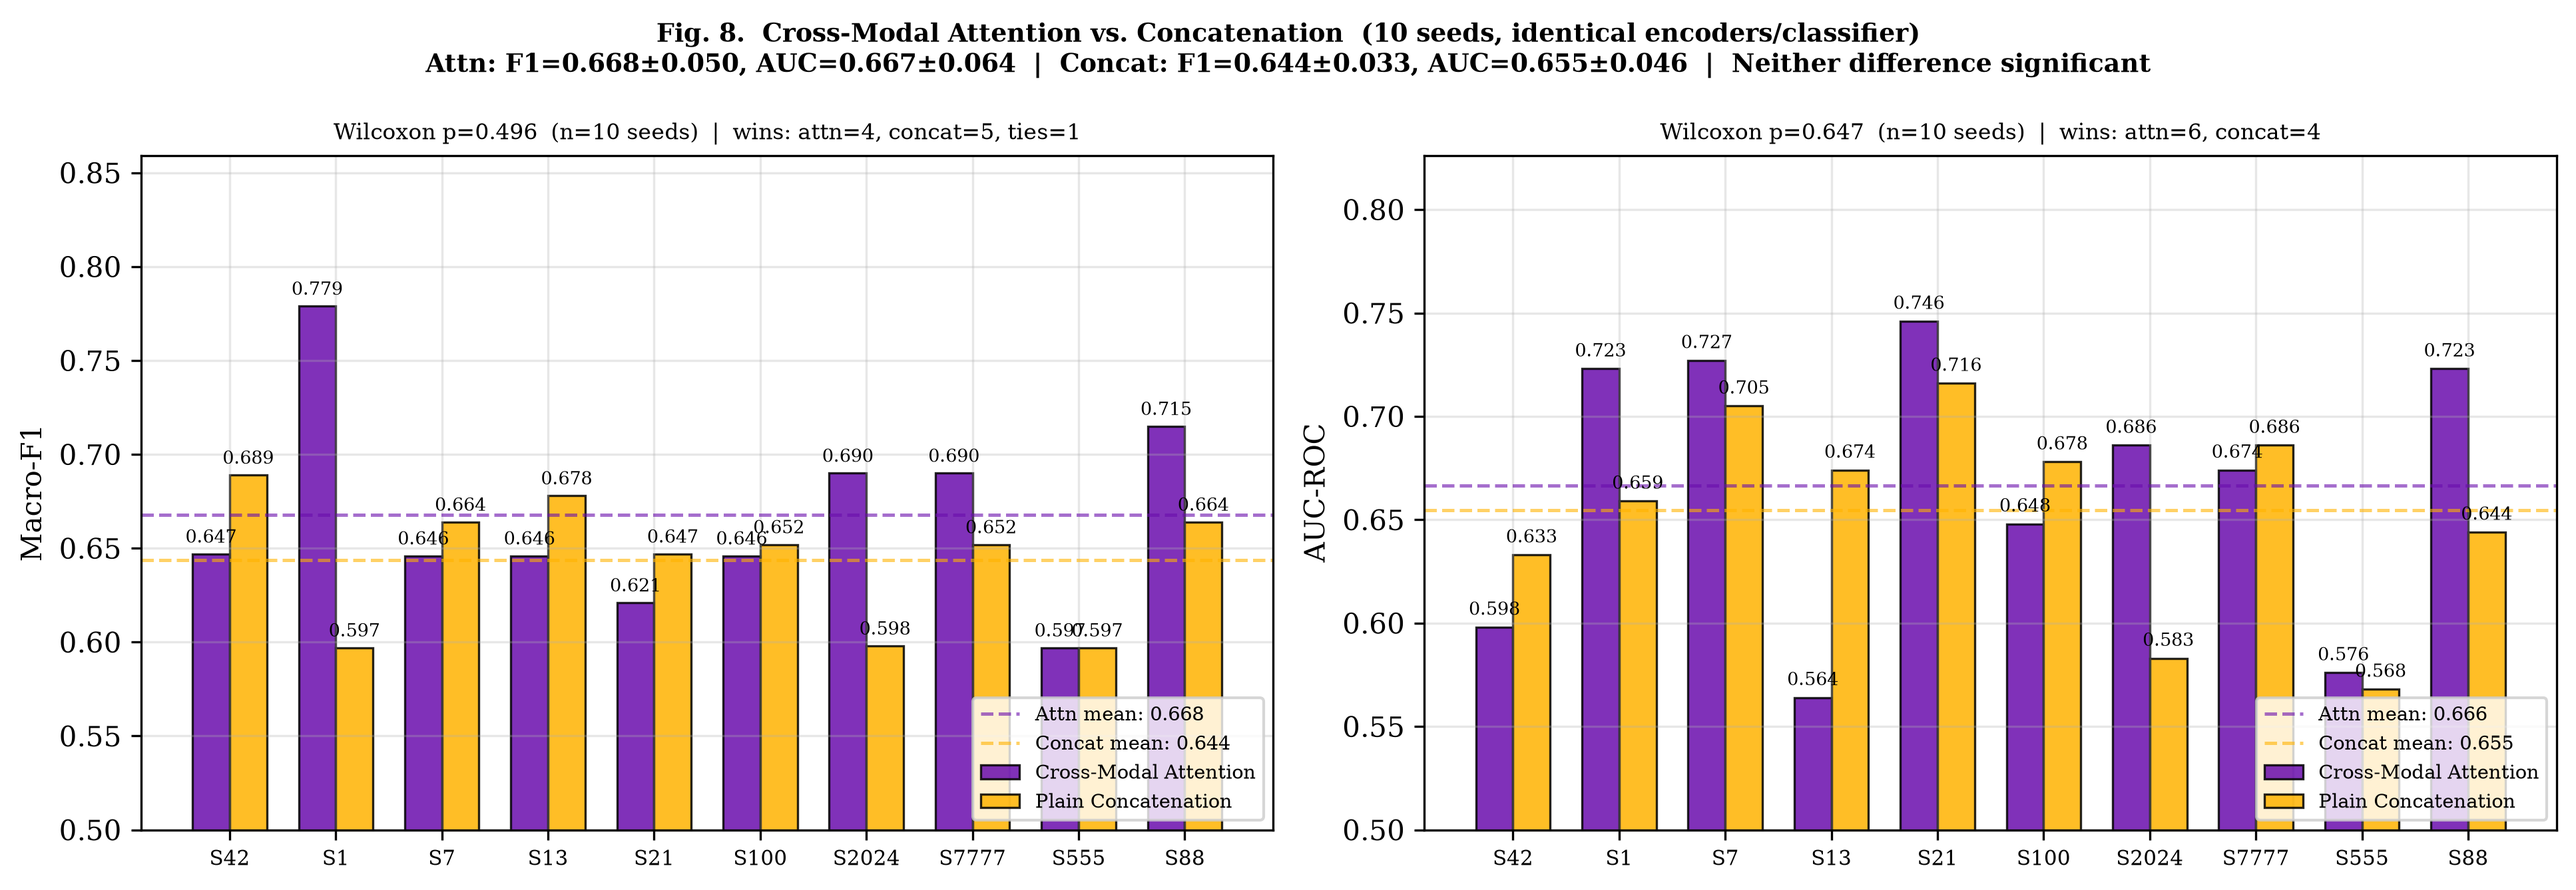
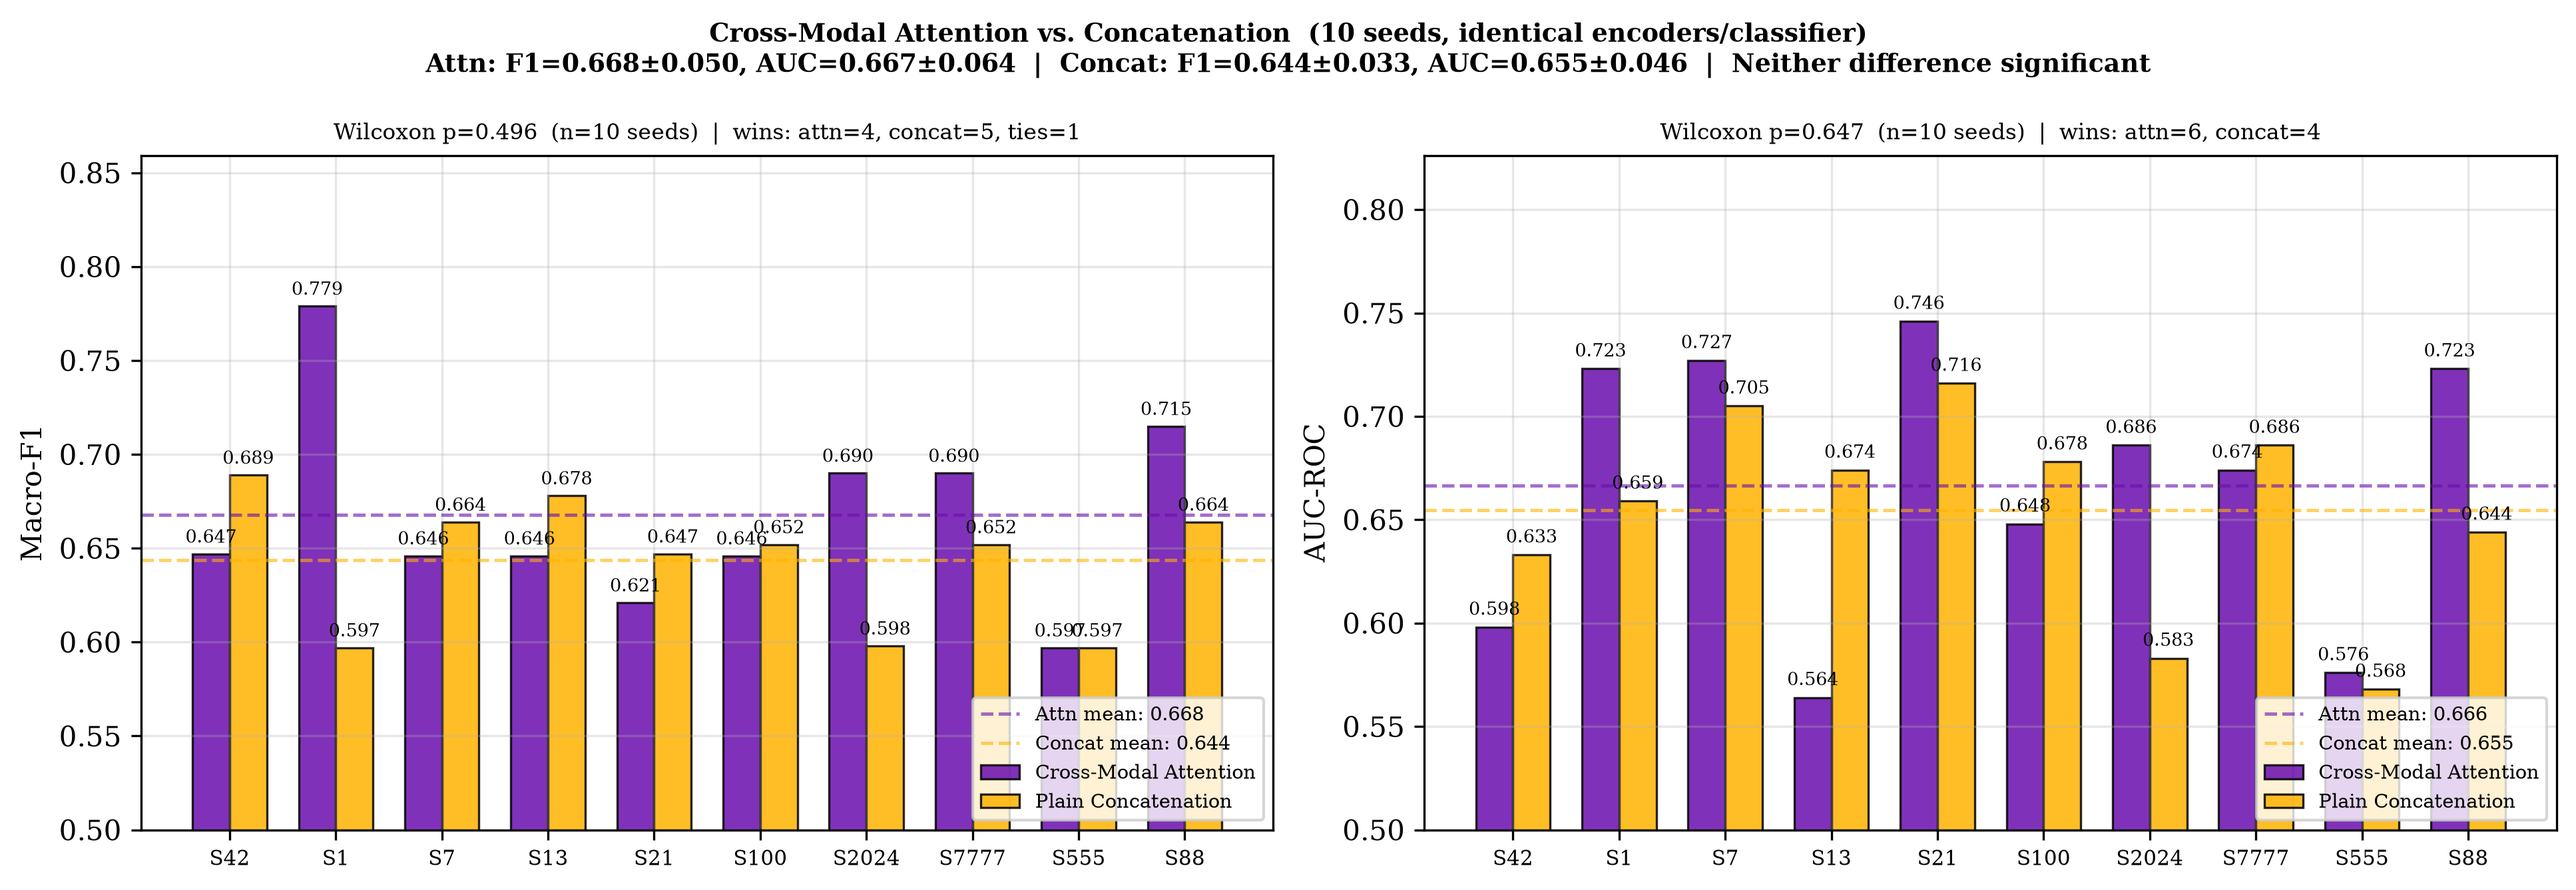
fix(paper): remove hardcoded Fig-N prefixes from all 8 figures (root-cause fix)
CRITICAL bug caught by external review of compiled PDF: the actual
figure order in paper_draft.tex (fig1, fig2, fig4, fig3, fig8, fig5,
fig6, fig7 -- filename suffix does NOT match document position) never
matched the hardcoded 'Fig. N.' title baked into each matplotlib image.
Every figure from position 3 onward showed a wrong number to the reader
alongside the correct LaTeX-numbered caption below it.

Fix: strip 'Fig. N.' from all embedded titles/suptitles across all 8
figure-generating functions. LaTeX's \caption/\label auto-numbering is
now the single source of truth -- this bug class cannot recur even if
figures are reordered in the manuscript again.

Also updated the module docstring to list actual filenames/content
instead of a stale 6-figure list with 'Phase 7 vs Phase 8' language.

Changed region(s): [[0.2481, 0.0306, 0.7444, 0.0613]]

diff --git a/src/visualization/make_paper_figures.py b/src/visualization/make_paper_figures.py
@@ -1,14 +1,22 @@
 """
 Publication-Quality Figure Generation
 ======================================
-Generates all figures referenced in the IEEE paper from verified metrics:
+Generates all 8 figures referenced in the IEEE paper from verified metrics.
+Figure numbers are NOT embedded in the images -- LaTeX \caption/\label
+auto-numbering is the single source of truth, since the figures' order
+of appearance in the manuscript does not match their filename suffixes
+(e.g. fig8_attention_vs_concat.png appears before fig5_sota.png in the
+document). Embedding a hardcoded "Fig. N" title previously caused a
+number mismatch between the image and its actual caption.
 
-  Fig 1. System architecture (schematic block diagram)
-  Fig 2. Ablation: per-config AUC with bootstrap CI error bars (7 configs)
-  Fig 3. Phase 7 vs Phase 8: F1 comparison with std bands
-  Fig 4. Per-seed consistency strip plot (Phase 8, 5 seeds)
-  Fig 5. SOTA positioning bar chart (this work vs published DAIC-WOZ)
-  Fig 6. Fairness gap radar (4 criteria, male vs female)
+  fig1_architecture.png          System architecture (schematic block diagram)
+  fig2_ablation_ci.png           Ablation: per-config AUC with bootstrap CI (7 configs)
+  fig3_p7_vs_p8.png               Single-task baseline vs. proposed multi-task: F1 comparison
+  fig4_seed_consistency.png       Per-seed consistency strip plot (5 seeds)
+  fig5_sota.png                   SOTA positioning bar chart (this work vs published DAIC-WOZ)
+  fig6_fairness_radar.png         Fairness gap radar (4 criteria, male vs female)
+  fig7_fairness_before_after.png  Equalized-Odds loss: per-seed TPR gap (10 seeds)
+  fig8_attention_vs_concat.png    Cross-modal attention vs. concatenation (10 seeds)
 
 All numbers loaded from results/metrics/*.json — no hard-coded values.
 300 DPI, serif fonts, IEEE-compatible sizing.
@@ -109,7 +117,7 @@ def fig_architecture():
     arrow(6.0, 2.5, 6.0, 1.8)
     arrow(6.0, 2.5, 9.9, 1.8)
 
-    ax.set_title("Fig. 1.  Tri-Modal Multi-Task Architecture with Cross-Modal Attention",
+    ax.set_title("Tri-Modal Multi-Task Architecture with Cross-Modal Attention",
                  fontsize=11, weight="bold", pad=10)
     plt.savefig(FIGURES / "fig1_architecture.png")
     plt.close()
@@ -134,7 +142,7 @@ def fig_ablation_ci():
     ax.axhline(0.5, ls="--", color="gray", lw=1, label="Random (0.50)")
     ax.set_ylabel("Dev AUC (mean ± std, 5 seeds)")
     ax.set_ylim(0.4, 0.85)
-    ax.set_title("Fig. 2.  Ablation: AUC by Modality Configuration")
+    ax.set_title("Ablation: AUC by Modality Configuration")
     for b, m in zip(bars, means):
         ax.text(b.get_x() + b.get_width()/2, m + 0.012, f"{m:.3f}",
                 ha="center", fontsize=8)
@@ -161,7 +169,7 @@ def fig_p7_vs_p8():
                   edgecolor="black", linewidth=0.9, width=0.55)
     ax.set_ylabel("Macro-F1 (mean ± std, 5 seeds)")
     ax.set_ylim(0.45, 0.72)
-    ax.set_title("Fig. 3.  Proposed Multi-Task Model vs. Single-Task Baseline")
+    ax.set_title("Proposed Multi-Task Model vs. Single-Task Baseline")
     for b, v, s in zip(bars, y, e):
         ax.text(b.get_x() + b.get_width()/2, v + s + 0.005, f"{v:.3f}±{s:.3f}",
                 ha="center", fontsize=8.5, weight="bold")
@@ -196,7 +204,7 @@ def fig_seed_consistency():
     ax.set_xticklabels([f"seed {s}" for s in seeds])
     ax.set_ylabel("Macro-F1")
     ax.set_xlim(-0.5, len(seeds)-0.5)
-    ax.set_title("Fig. 4.  Proposed Model Per-Seed Consistency (all 5 above baseline)")
+    ax.set_title("Proposed Model Per-Seed Consistency (all 5 above baseline)")
     ax.legend(fontsize=7.5, loc="lower right")
     plt.savefig(FIGURES / "fig4_seed_consistency.png")
     plt.close()
@@ -216,7 +224,7 @@ def fig_sota():
                   edgecolor="black", linewidth=0.8)
     ax.set_ylabel("DAIC-WOZ Dev F1")
     ax.set_ylim(0.4, 0.75)
-    ax.set_title("Fig. 5.  Positioning vs. Published DAIC-WOZ Results")
+    ax.set_title("Positioning vs. Published DAIC-WOZ Results")
     for b, v in zip(bars, f1s):
         ax.text(b.get_x()+b.get_width()/2, v+0.008, f"{v:.3f}",
                 ha="center", fontsize=8.5,
@@ -244,7 +252,7 @@ def fig_fairness_radar():
     ax.fill(angles, female, color=CORAL, alpha=0.12)
     ax.set_xticks(angles[:-1]); ax.set_xticklabels(crit, fontsize=8.5)
     ax.set_ylim(0, 1.05)
-    ax.set_title("Fig. 6.  Gender Fairness Audit\n(EO gap 0.286 = real bias detected)",
+    ax.set_title("Gender Fairness Audit\n(EO gap 0.286 = real bias detected)",
                  fontsize=10, pad=20)
     ax.legend(loc="upper right", bbox_to_anchor=(1.25, 1.1), fontsize=9)
     plt.savefig(FIGURES / "fig6_fairness_radar.png")
@@ -274,7 +282,7 @@ def fig_fairness_before_after():
     mn_no  = np.mean(no_fair)
     mn_wi  = np.mean(with_fair)
     ax.set_title(
-        f"Fig. 7.  Equalized-Odds Loss: Mixed Results over 10 Seeds\n"
+        f"Equalized-Odds Loss: Mixed Results over 10 Seeds\n"
         f"(mean gap: {mn_wi:.3f}±{np.std(with_fair):.3f} vs "
         f"{mn_no:.3f}±{np.std(no_fair):.3f},  Wilcoxon p=0.813,  wins: fair=3, base=4, ties=3)",
         fontsize=9
@@ -331,7 +339,7 @@ def fig_attention_vs_concat():
                         f"{v:.3f}", ha="center", fontsize=6.5)
 
     fig.suptitle(
-        "Fig. 8.  Cross-Modal Attention vs. Concatenation  (10 seeds, identical encoders/classifier)\n"
+        "Cross-Modal Attention vs. Concatenation  (10 seeds, identical encoders/classifier)\n"
         "Attn: F1=0.668±0.050, AUC=0.667±0.064  |  Concat: F1=0.644±0.033, AUC=0.655±0.046  |  Neither difference significant",
         fontsize=9, weight="bold"
     )
